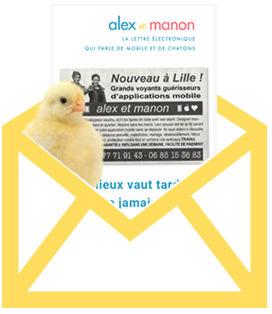
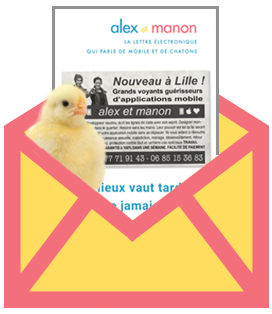
Updates newsletter header image

diff --git a/src/pages/index.html b/src/pages/index.html
@@ -197,7 +197,7 @@
 <!-- newsletter -->
 <div class="expanded column row aetm--box aetm--newsletter text-center">
     <div class="aetm--newsletter--header">
-        <img class="aetm--newsletter--header--img" src="assets/img/aetm--newsletter.png">
+        <img class="aetm--newsletter--header--img" src="assets/img/aetm-newsletter.png">
     </div>
 
     <div class="aetm--box--medium">

diff --git a/src/assets/scss/components/_main.scss b/src/assets/scss/components/_main.scss
@@ -274,7 +274,7 @@
     top: 0;
     left: 0;
     right: 0;
-    transform: translateY(-50%);
+    transform: translateY(-60%);
 }
 
 .aetm--newsletter--header--img {
